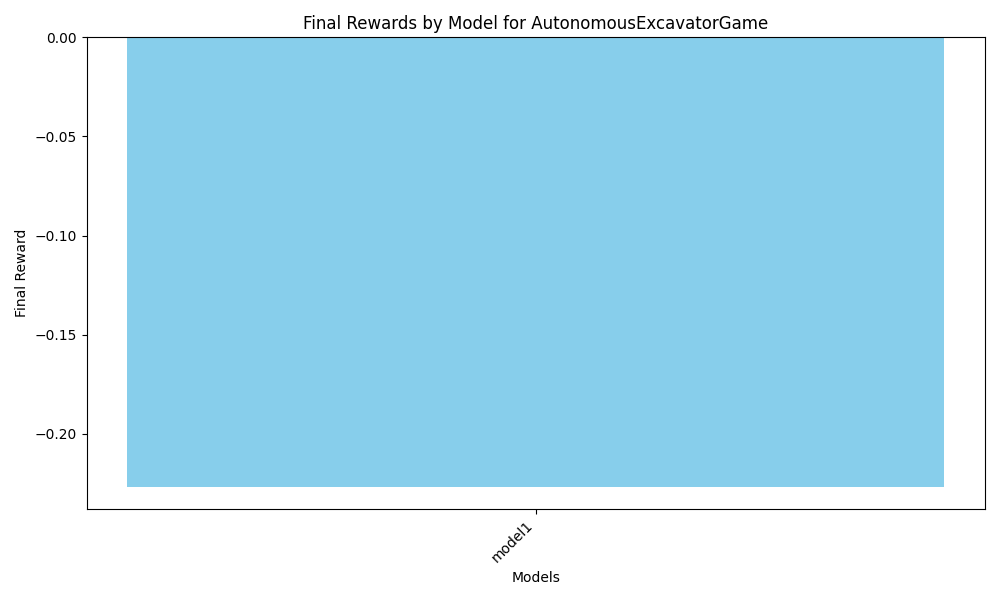
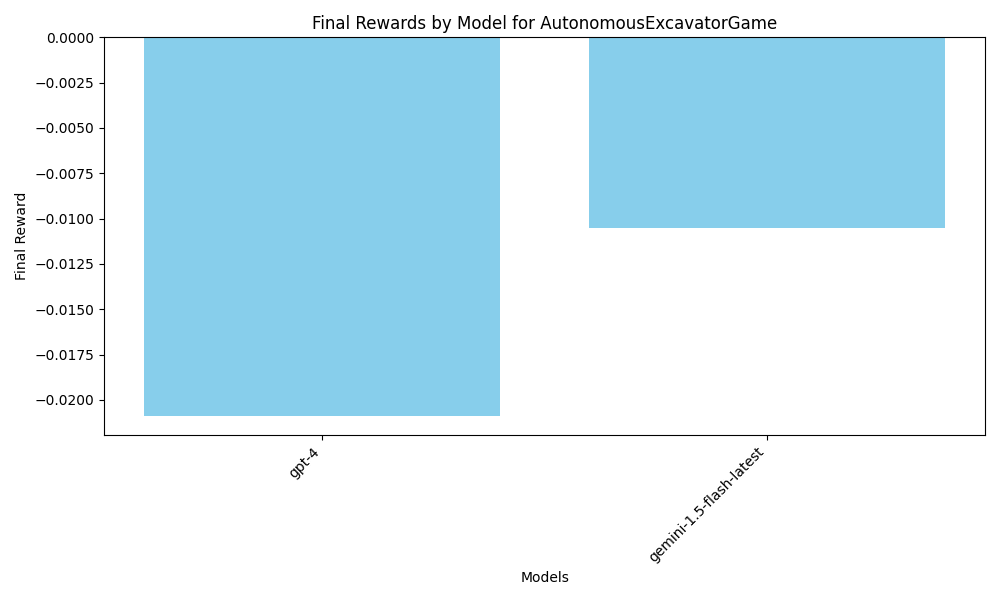
make script runnable from cl

diff --git a/terra/viz/main_manual_llm.py b/terra/viz/main_manual_llm.py
@@ -43,7 +43,7 @@ def save_video(frames, output_path, fps=1):
     out.release()
     print(f"Video saved to {output_path}")
 
-def main():
+def run_experiment(model_name, model, num_timesteps):
     print(f"Current working directory: {os.getcwd()}")
 
     # Load the JSON configuration file
@@ -82,9 +82,9 @@ def main():
     _rng = _rng[None]
     timestep = env.reset(env_cfgs, _rng)
     
-    print(system_message)
     #agent = Agent(model_name="gpt-4", model="gpt4", system_message=system_message, env=env)
-    agent = Agent(model_name="gemini-1.5-flash-latest", model="gemini", system_message=system_message, env=env)
+    #agent = Agent(model_name="gemini-1.5-flash-latest", model="gemini", system_message=system_message, env=env)
+    agent = Agent(model_name=model_name, model=model, system_message=system_message, env=env)
 
     # Define the repeat_action function
     def repeat_action(action, n_times=n_envs):
@@ -103,7 +103,7 @@ def main():
     cumulative_rewards = []
     action_list = []
     steps_taken = 0
-    num_timesteps = 100
+    num_timesteps = num_timesteps
     frames = []
 
     progress_bar = tqdm(total=num_timesteps, desc="Rollout", unit="steps")
@@ -116,7 +116,7 @@ def main():
         
         game_state_image = capture_screen(screen)
         frames.append(game_state_image)
-        #print('okay 2')
+
         usr_msg0 = "What action should be taken?"
         usr_msg1 ='Analyze this game frame and select the optimal action. Focus on immediate gameplay elements visible in this specific frame, and follow the format: {"reasoning": "detailed step-by-step analysis", "action": X}'
         
@@ -162,9 +162,9 @@ def main():
 
     print(f"Rollout complete. Total reward: {rewards}")
 
-    output_dir = "./experiments/"
+    output_dir = os.path.join("experiments", f"AutonomousExcavatorGame_{model_name}")   
     os.makedirs(output_dir, exist_ok=True)
-    output_file = os.path.join(output_dir, f"{environment_name}_actions_rewards.csv")
+    output_file = os.path.join(output_dir, f"actions_rewards.csv")
     with open(output_file, "w") as f:
         writer = csv.writer(f)
         writer.writerow(["actions", "cumulative_rewards"])
@@ -173,8 +173,6 @@ def main():
 
     print(f"Results saved to {output_file}")
 
-    video_path = os.path.join(output_dir, f"{environment_name}_gameplay.mp4")
+    video_path = os.path.join(output_dir, f"gameplay.mp4")
     save_video(frames, video_path)
 
-if __name__ == "__main__":
-    main()

diff --git a/terra/viz/main_llm.py b/terra/viz/main_llm.py
@@ -1,0 +1,12 @@
+import argparse
+from .main_manual_llm import run_experiment
+
+if __name__ == "__main__":
+    parser = argparse.ArgumentParser(description="Run an LLM-based simulation experiment.")
+    parser.add_argument("--modelname", type=str, required=True, help="Name of the LLM model to use.")
+    parser.add_argument("--model", type=str, required=True, help="Name of the LLM model to use.")
+    parser.add_argument("--num_timesteps", type=int, default=100, help="Number of timesteps to run.")
+
+    args = parser.parse_args()
+    print(args.modelname)
+    run_experiment(args.modelname, args.model, args.num_timesteps)
